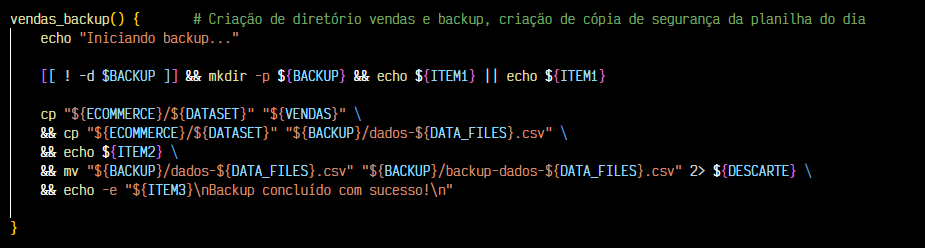
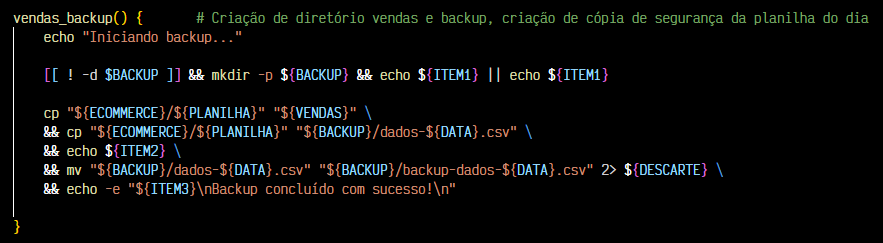
finalização dos readmes da sprint 1

Changed region(s): [[0.0, 0.0288, 1.0, 0.8642], [0.0, 0.893, 0.0306, 0.9506]]

diff --git a/sprint1/desafio/README.md b/sprint1/desafio/README.md
@@ -11,8 +11,7 @@ Para embasar algumas motivações no desenlvovimento do desafio, quando oportuno
 
 Em ambiente Linux Ubuntu, foi realizado o download do arquivo `dados_de_vendas.csv` na pasta `/home`, a criação da pasta `ecommerce` e envio do arquivo para lá.
 
-> [!NOTE]
-> A pasta `ecommerce` foi criada diretamente no repositório da trilha de aprendizado, já trackeada pelo Git, na subpasta `desafio`. No momento da execução da preparação do print abaixo, já haviam sido criados alguns arquivos.
+> :exclamation: A pasta `ecommerce` foi criada diretamente no repositório da trilha de aprendizado, já trackeada pelo Git, na subpasta `desafio`. No momento da execução da preparação do print abaixo, já haviam sido criados alguns arquivos.
 
 | |
 |---|
@@ -81,10 +80,29 @@ A seguir serão comentadas as funções do script `processamento_de_vendas.sh`.
 
 ### FUNÇÃO vendas_backup
 
+A função cria as pastas `vendas` e `/vendas/backup` dentro da pasta `/ecommerce`. Após a criação, copia a planilha de vendas para essas pastas, renomeando aquela referente ao backup.
+
 | |
 |---|
 |![Vendas-Backup](../evidencias/8-vendas-backup.png)|
 | |
+
+Verificação da existência da pasta `/backup`, antes da criação e confirmação. Caso já exista, a confirmação de criação é enviada, sem nenhuma alteração.
+
+```bash
+    # ! -d: retorna True se o diretório não existir
+    [[ ! -d $BACKUP ]] && mkdir -p ${BACKUP} && echo ${ITEM1} || echo ${ITEM1}
+```
+
+A seguir o passo a passo solicitado a cópia da planilha dentro dos diretórios `/vendas` e `/vendas/backup`. Seguida da renomeação para o padrão `backup-dados-YYYYMMDD.csv`.
+
+```bash
+    cp "${ECOMMERCE}/${PLANILHA}" "${VENDAS}" \
+    && cp "${ECOMMERCE}/${PLANILHA}" "${BACKUP}/dados-${DATA}.csv" \
+    && echo ${ITEM2} \
+    && mv "${BACKUP}/dados-${DATA}.csv" "${BACKUP}/backup-dados-${DATA}.csv" 2> ${DESCARTE} \
+    && echo -e "${ITEM3}\nBackup concluído com sucesso!\n"
+```
 
 #### FLUXO DE LÓGICA
 
@@ -99,15 +117,67 @@ graph LR
     D -- && --> E
     E -- cp --> F[para /vendas]
     E -- cp --> G[para /backup/dados-DATA]
-    E -- mv --> I[dados-$DATA para backup-dados-DATA]
+    G -- mv --> I[dados-DATA para backup-dados-DATA]
 ```
 
 ### FUNÇÃO relatorio
+
+A função faz o processamento da planilha de vendas, extraindo alguns dados, e inserindo-os em um relatório em formato `txt`.
 
 | |
 |---|
 |![Relatorio](../evidencias/9-relatorio.png)|
 | |
+
+Na pasta `/backup`, o relatório é criado e identificado com a data atual, no formato `YYYYMMDD`.
+
+- **1ª inserção**: data e hora atual são inseridas no relatório, no formato `YYYY/MM/DD HH:MM`.
+
+```bash
+    # >  : direciona e insere, sobrescrevendo, um output ao local-alvo
+    # >> : direciona e adiciona um output ao local-alvo  
+    cd ${BACKUP} \
+    && touch "relatorio-${DATA}.txt" \
+    && echo ${DATA_HORA} >> "relatorio-${DATA}.txt" \
+```
+
+- **2ª inserção**: data da venda do 1º item
+
+```bash
+    # cut: corta a string em "campos" ou "seções"
+        # -d ',': indica o delimitador a considerar no corte
+        # - f 5: após cortado, indica o campo de interesse, neste caso, corresponde à 5ª coluna
+    # sed: edita um streaming de strings
+        # -n: indica quais linhas serão consideradas
+        # '2p': imprime a 2ª linha (p --> print)
+    cut -d ',' -f 5 backup*.csv | sed -n '2p' >> "relatorio-${DATA}.txt" 2> ${DESCARTE}
+```
+
+- **3ª inserção**: data da venda do último item
+
+```bash
+    # tail: retorna, por padrão, as 10 últimas linhas
+        # -n '1': retorna somente 1 linha, a última
+    cut -d ',' -f 5 backup*.csv | tail -n 1 >> "relatorio-${DATA}.txt" 2> ${DESCARTE}
+```
+
+- **4ª inserção**: contagem de itens distintos vendidos
+
+```bash
+    # cut: seleção da 2ª coluna
+    # sed '1d': deleta a 1ª linha, de colunas
+    # sort: ordena os itens (necessários pois uniq conta somente itens distintos adjacentes)
+    # uniq -c: contagem de itens distintos
+    cut -d ',' -f 2 backup*.csv | sed '1d' | sort | uniq -c | wc -l >> "relatorio-${DATA}.txt" 2> ${DESCARTE}
+```
+
+- **5ª inserção**: listagem dos 10 primeiros itens (desconsiderando a linha de colunas)
+
+```bash
+    sed '1d' backup*.csv | head -n 10 >> "relatorio-${DATA}.txt" \
+    && echo >> "relatorio-${DATA}.txt" \
+    && echo -e "${ITEM4}\n"
+```
 
 #### FLUXO DE LÓGICA
 
@@ -120,16 +190,25 @@ graph LR
     C -- && --> D
     D(backup-dados) -- cut | sed --> E[1ª data >> relatório]
     D -- cut | tail --> F[última data >> relatório]
-    D -- cut | sed | sort | uniq | wc --> G[qtd itens diferentes >> relatório]
+    D -- cut | sed | sort | uniq | wc --> G[qtd itens distintos >> relatório]
     D -- sed | heac --> H[10 itens >> relatório]    
 ```
 
 ### FUNÇÃO compressao
 
+A função é executada no diretório `/backup`, comprimindo o arquivo de backup do dia em um arquivo compactado `.zip`.
+
 | |
 |---|
 |![Compressão](../evidencias/10-compressao.png)|
 | |
+
+```bash
+    # A variável DATA contém a data atual do momento de execução, no formato YYYYMMDD
+    cd ${BACKUP} \
+    && zip "backup-dados-${DATA}.zip" "backup-dados-${DATA}.csv" \
+    && echo -e "${ITEM5}\n"
+```
 
 #### FLUXO DE LÓGICA
 
@@ -144,10 +223,19 @@ graph LR
 
 ### FUNÇÃO limpeza_arquivos
 
+A função faz a remoção dos arquivos `.csv` da pasta `/vendas` e `/backup`, após seu processamento em um relatório `.txt` e backup compactado em `.zip`.
+
 | |
 |---|
 |![Limpeza Arquivos](../evidencias/11-limpeza-arquivos.png)|
 | |
+
+```bash
+    # Uso de wildcard (*) para considerar arquivos com quaisquer datas no nome, e a extensão para garantir que não sejam removidos os arquivos compactados.
+    rm -f ${BACKUP}/backup*.csv \
+    && rm -f ${VENDAS}/dados*.csv \
+    && echo -e "${ITEM6}\n"
+```
 
 #### FLUXO DE LÓGICA
 
@@ -158,15 +246,28 @@ graph LR
     A((/backup))-- rm --> B(backup-dados)
     C((/vendas))-- rm --> D(dados)
     A -- && --> C
- 
 ```
 
-### FUNÇÃO consolidacao
+## CONSOLIDAÇÃO DO PROCESSAMENTO DE VENDAS
+
+O script `consolidador_de_processamento_de_vendas.sh` une todos os relatórios gerados, em ordem cronológica, em um único relatório final.
+
+### FUNÇÃO consolidacao 
+
+A função é executada dentro do diretório `/backup`, primeiramente localiza todos os arquivos de relatório que tenham o nome dentro do padrão `relatorio-YYYYMMDD.txt`, organiza os arquivos em ordem crescente, e copia seu conteúdo para um arquivo `relatório-final.txt`. 
+
+Para garantir que o próprio relatório final não fosse passado pelo pipeline (isso estava acontecendo), foi usado RegEx para garantir o padrão.
 
 | |
 |---|
 |![Consolidação](../evidencias/13-consolidador.png)|
 | |
+
+```bash
+    # grep -E: utiliza extended regex
+    # [0-9]{8}: aceita somente 8 dígitos
+    find . -name "relatorio*.txt" | grep -E 'relatorio-[0-9]{8}\.txt' | sort | xargs -0 -I {} cat {} >> relatorio-final.txt 2> ${DESCARTE}
+```
 
 #### FLUXO DE LÓGICA
 
@@ -182,8 +283,10 @@ graph LR
 
 | |
 |---|
-|![Execução Consolidação](../evidencias/.gif)|
+|![Execução Consolidação](../evidencias/16-execucao-consolidador.gif)|
 | |
+
+> :exclamation: O relatório gerado durante a gravação do vídeo foi mantido na pasta `backup`, porém não foi considerado na execução do script de consolidação.
 
 ## AGENDAMENTO DE ROTINAS: CRONTAB
 
@@ -228,6 +331,8 @@ Segue abaixo o prompt utilizado com o modelo Claude 3.5 Sonnet para gerar linhas
 |![AI-Dataset](../evidencias/5-geracao-dataset.png)|
 | |
 
+> ! O arquivo com os dados gerados foi mantido na pasta `/ecommerce`, nomeado `dados_adicionais.csv`.
+
 ---
 
 ## METODOLOGIA UTILIZADA
@@ -245,28 +350,39 @@ No cabeçalho, além da linha de chamada do interpretador ***bash***, encontram-
 |![Cabeçalho](../evidencias/6-cabecalho.png)|
 | |
 
-Seção inicial do script, com definição de variáveis globais, incorporando escolhas semânticas que otimizam a leitura e compreensão do código.
+Seção inicial do script, com definição de variáveis globais.
 
 | |
 |---|
 |![Variáveis](../evidencias/7-variaveis.png)|
 | |
 
+### VARIÁVEIS SEMÂNTICAS
+
+O exemplo acima, a seção de definição de variáveis globais, incorpora escolhas semânticas que otimizam a leitura e compreensão do código.
+
+> *Nomear é importante [...] reduzindo erros no código, e no futuro ao reler, debugar e aprimorar.*[^3]
+
 ### CONTROLE DE FLUXO
 
 Para os controles de fluxo, foi priorizada a escrita simplificada, sem a utilização explícita de `if` e `then`, para otimizar a legilibilidade do código.
 
-IMAGEM DE IFS
+> *[...] para situações de teste e checagem de ações simples, usar **&&** e **||** pode ser muito conveniente e não desviará a atenção do fluxo de lógica principal.*[^4]
 
-> *[...] para situações de teste e checagem de ações simples, usar **&&** e **||** pode ser muito conveniente e não desviará a atenção do fluxo de lógica principal.*[^3]
+| |
+|---|
+|![Pipeline](../evidencias/12-main.png)|
+| |
 
-Ademais, o encadeamento lógico de comandos com `&&` assegura a **atomicidade** das execuções, ou seja, ou todos os comandos de determinado bloco lógico são executados em conjunto, ou nenhum será. Já a utilização de quebras de linha com `\` é uma adoção inspirada em estilos utilizados atualmente pela comunidade.
+O encadeamento lógico de comandos foi utilizado com a técnica de ***piping***, utilizando o output de um comando para ser o input da função seguinte. Além disso, também foi aplicado com condicionais encadeadas `&&`, assegurando a **atomicidade** das execuções, ou seja, ou todos os comandos de determinado bloco lógico são executados em conjunto, ou nenhum será.
+
+Já a utilização de quebras de linha com `\` é uma adoção inspirada em estilos utilizados atualmente pela comunidade, também uma contribuição para legibilidade em linhas mais extensas.
 
 ### TRATATIVAS DE ERRO
 
-> *Mensagens de erro devem ir para STDERR, como echo "Algo ruim aconteceu" 1>&2.*[^4]
+> *Mensagens de erro devem ir para STDERR, como echo "Algo ruim aconteceu" 1>&2.*[^5]
 
-Nos comandos suscetíveis a gerar erros, foi feita a trativa com a abordagem a seguir:
+Nos comandos suscetíveis à geração de erros, foi feita a tratativa com a abordagem a seguir:
 
 ```bash
 DESCARTE="/dev/null"
@@ -300,5 +416,6 @@ Alteração já realizada no script `preparacao_ecommerce`.
 
 [^1]: BARRETT, 2022, p. 122
 [^2]: ALBING, VOSSEN, 2022, p. 27
-[^3]: Ibid., p. 7
-[^4]: Ibid., p. 132
+[^3]: Ibid., p.127
+[^4]: Ibid., p. 7
+[^5]: Ibid., p. 132

diff --git a/sprint1/README.md b/sprint1/README.md
@@ -58,38 +58,10 @@ Demonstração das aplicações de versionamento de código aplicadas no projeto
 
 ![Preparação](evidencias/2-commits.png)
 
-## CERTIFICADOS
-
-### Linux para Desenvolvedores (c/ Terminal, Shell, Apache e +)
-
-*Ministrado por Matheus Battisti @ Udemy*
-
-| |
-|---|
-|![Certificado-Linux](certificados/certificado-linux.jpg)|
-||
-
-### Git e GitHub do Básico ao Avançado (c/ Gist e GitHub Pages)
-
-*Ministrado por Matheus Battisti @ Udemy*
-
-| |
-|---|
-|![Certificado-Git](certificados/certificado-git.jpg)|
-||
 
 ## CERTIFICADOS COMPLEMENTARES
 
-Para absorver melhor o conteúdo desta sprint e me aprofundar em pontos de interesse, concluí em paralelo os cursos abaixo.
-
-### Git Going with Comparing, Branching and Merging
-
-*Ministrado por Jason Taylor e John Myers @ Udemy*
-
-| |
-|---|
-|![Certificado-Git](certificados/certificado-complementar-git.jpg)|
-||
+Para absorver melhor o conteúdo desta sprint e me aprofundar em pontos de interesse, concluí em paralelo os cursos abaixo, externos à Udemy.
 
 ### Linux and Bash for Data Engineering
 
@@ -97,7 +69,7 @@ Para absorver melhor o conteúdo desta sprint e me aprofundar em pontos de inter
 
 | |
 |---|
-|![Certificado-Comp-Bash](certificados/certificado-complementar-linux-bash.jpg)|
+|![Certificado-Comp-Bash](certificados/certificado-coursera-linux-bash.jpg)|
 ||
 
 ### Introduction to Bash Shell Scripting
@@ -106,16 +78,7 @@ Para absorver melhor o conteúdo desta sprint e me aprofundar em pontos de inter
 
 | |
 |---|
-|![Certificado-Comp-Bash](certificados/certificado-complementar-bash.jpg)|
-||
-
-### Shell Scripting: Discover How to Automate Command Line Tasks
-
-*Ministrado por Jason Cannon @ Udemy*
-
-| |
-|---|
-|![Certificado-Comp-Bash](certificados/)|
+|![Certificado-Comp-Bash](certificados/certificado-coursera-bash.jpg)|
 ||
 
 ## BIBLIOGRAFIA

diff --git a/guide/01_linux_shell_bash.md b/guide/01_linux_shell_bash.md
@@ -5,6 +5,32 @@
 |![Banner](../assets/banner-guide01.png)|
 | |
 
+## Estrutura de Diretórios da Raíz
+
+`/` raíz  
+`bin` arquivos binários, necessários para a execução de ações  
+`boot` arquivos que auxiliam na inicialização do sistema (pode estar vazia)  
+`dev` arquivos que representam os dispositivos de entrada/saída (E/S) do sistema (ex. usb, teclado, etc)  
+`etc` arquivos de configuração de instalações
+`home` arquivos pessoais dos usuários  
+`lib` arquivos de bibliotecas compartilhadas entre aplicativos  
+`media` diretórios dos dispositivos E/S montados (mounted) no PC (pode estar vazia)  
+`opt` arquivos das aplicações de terceiros  
+`sbin` (system binaries) arquivos binários de inicialização do sistema  
+`tmp` arquivos temporários, que podem ser deletados a qualquer momento (ex. instaladores)  
+`usr` arquivos utilizados somente no modo leitura, não podem ser editados (ex. comando man de manual do sistema)  
+`var` arquivos que “variam muito” (ex. arquivos de log)
+
+## Manipulação de Strings
+
+### grep
+
+### sed
+
+### awk
+
+---
+
 ## Referências
 
 ALBING, Carl; VOSSEN, JP. **Bash Cookbook: Solutions and Examples for Bash Users**. Sebastopol: O’Reilly, 2018.

diff --git a/guide/README.md b/guide/README.md
@@ -4,3 +4,9 @@
 |---|
 |![Banner](../assets/banner-guide.png)|
 | |
+
+||
+|:---:|
+|[![Guide-01](https://img.shields.io/badge/Linux._Shell._Bash.-ED751A)](/guide/01_linux_shell_bash.md)|
+|[![Guide-02](https://img.shields.io/badge/Git-ED751A)](/guide/02_git.md)|
+||
